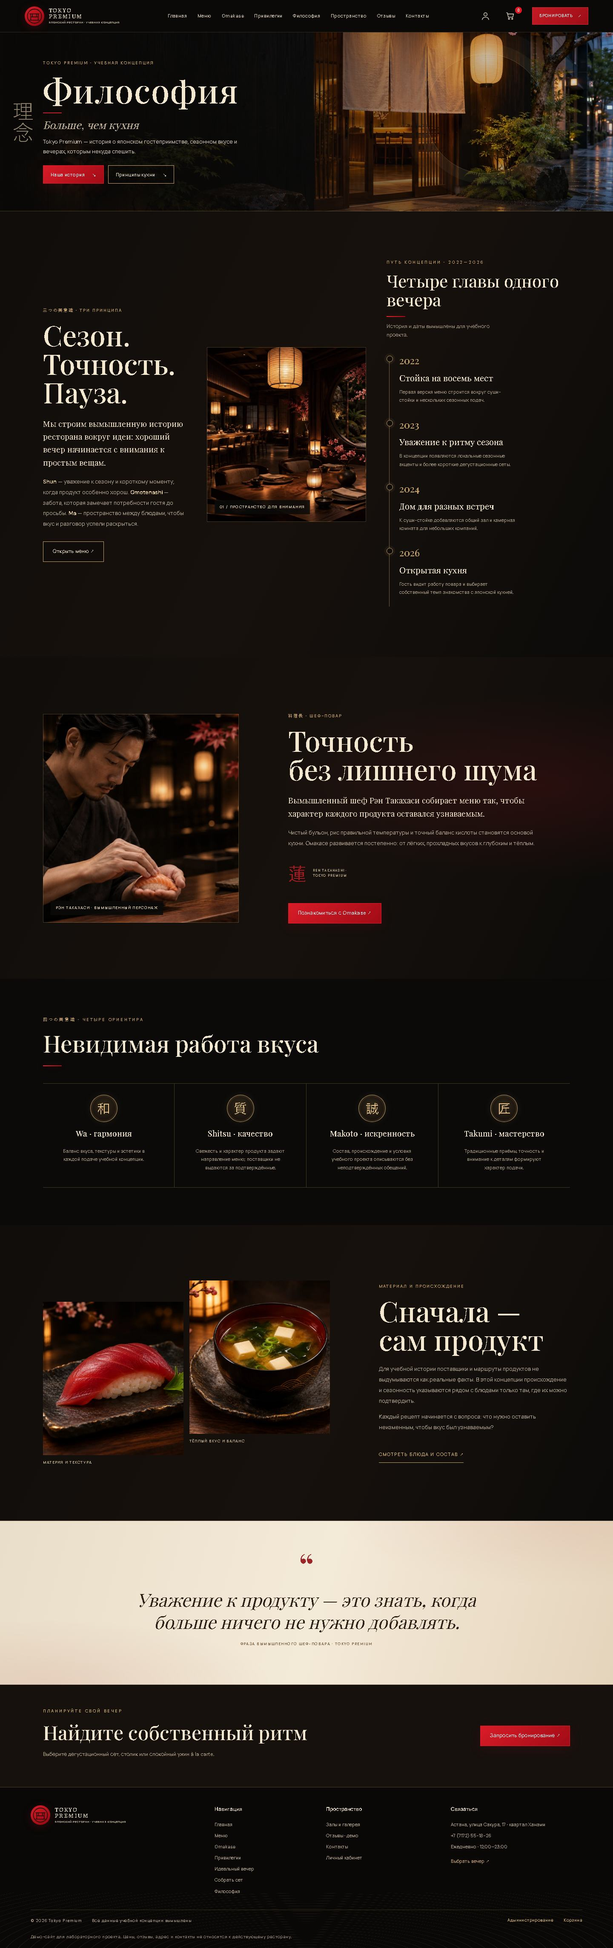
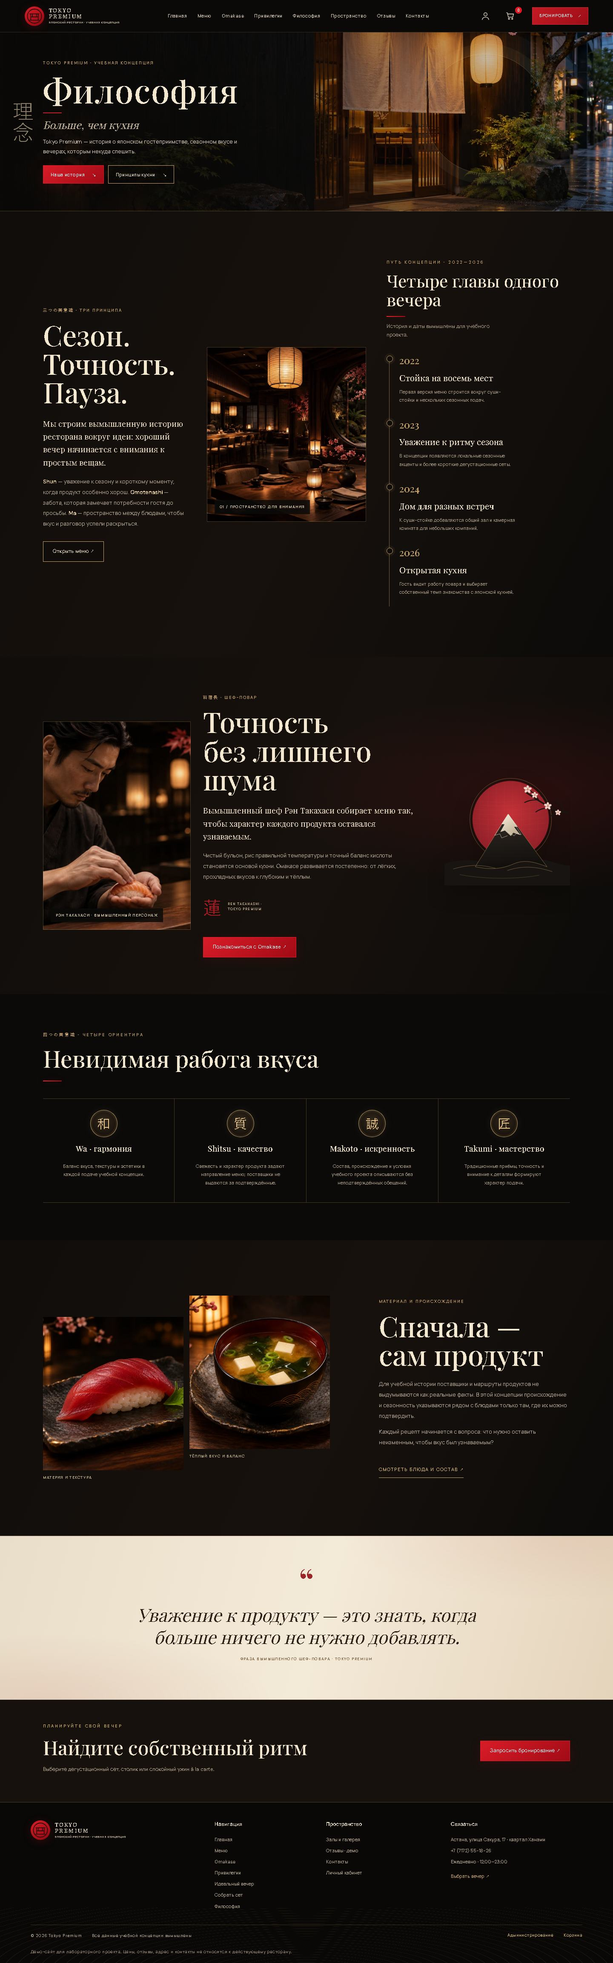
Add philosophy Fuji editorial artwork

diff --git a/docs/about.html b/docs/about.html
@@ -1,7 +1,7 @@
 <!doctype html><html lang="ru"><head><meta charset="utf-8"><meta name="viewport" content="width=device-width, initial-scale=1"><meta name="description" content="История вымышленного японского ресторана Tokyo Premium в Астане: сезонность, мастерство кухни и omotenashi."><meta name="theme-color" content="#0b0a09"><meta property="og:title" content="Философия — Tokyo Premium"><meta property="og:description" content="История вымышленного японского ресторана Tokyo Premium в Астане: сезонность, мастерство кухни и omotenashi."><meta property="og:type" content="website"><meta property="og:image" content="assets/generated/contact-exterior.webp"><meta name="twitter:card" content="summary_large_image"><meta name="twitter:image" content="assets/generated/contact-exterior.webp"><title>Философия — Tokyo Premium</title><style id="tp20-view-transition">@media (prefers-reduced-motion: no-preference){@view-transition{navigation:auto}::view-transition-old(root){animation:tp20-page-out 130ms ease both}::view-transition-new(root){animation:tp20-page-in 220ms cubic-bezier(.2,.65,.25,1) both}@keyframes tp20-page-out{to{opacity:0}}@keyframes tp20-page-in{from{opacity:0}to{opacity:1}}}</style><link rel="preconnect" href="https://fonts.googleapis.com"><link rel="preconnect" href="https://fonts.gstatic.com" crossorigin><link href="https://fonts.googleapis.com/css2?family=DM+Sans:wght@400;500;600&family=Manrope:wght@400;500;600;700&family=Playfair+Display:wght@400;500;600&display=swap" rel="stylesheet"><link rel="stylesheet" href="luxury.css"><link rel="stylesheet" href="editorial.css"><link rel="stylesheet" href="premium.css"><link rel="stylesheet" href="luxury-refinements.css"><link rel="stylesheet" href="tokyo20.css"><link rel="stylesheet" href="experience-ui.css"></head><body><header class="site-header"><a class="wordmark" href="index.html" aria-label="Tokyo Premium — главная"><span class="brand-emblem" aria-hidden="true"><svg viewBox="0 0 48 48" fill="none"><circle cx="24" cy="24" r="21"/><path d="M10 17h28M13 17v19m22-19v19M10 36h28M18 17v7m12-7v7M15 26h18"/></svg></span><span class="brand-type">TOKYO <i>PREMIUM</i><small>ЯПОНСКИЙ РЕСТОРАН · УЧЕБНАЯ КОНЦЕПЦИЯ</small></span></a><nav class="main-nav" id="site-navigation" aria-label="Основная навигация" aria-hidden="true" inert><a class="" href="index.html">Главная</a><a class="" href="menu.html">Меню</a><a class="" href="omakase.html">Omakase</a><a class="" href="offers.html">Привилегии</a><a href="about.html">Философия</a><a class="" href="gallery.html">Пространство</a><a href="reviews.html">Отзывы</a><a class="" href="contacts.html">Контакты</a><div class="mobile-nav-utilities" aria-label="Быстрые действия"><a href="booking.html">Бронирование <span aria-hidden="true">↗</span></a><a href="offers.html">Привилегии и акции <span aria-hidden="true">↗</span></a><a href="perfect-evening.html">Идеальный вечер <span aria-hidden="true">↗</span></a><a href="set-builder.html">Собрать сет <span aria-hidden="true">↗</span></a><a href="cart.html">Корзина <span class="mobile-cart-count" aria-hidden="true">0</span></a><a href="account.html">Личный кабинет</a></div></nav><div class="header-actions"><a class="header-icon" href="account.html" aria-label="Личный кабинет"><svg viewBox="0 0 24 24" aria-hidden="true"><circle cx="12" cy="8" r="4"/><path d="M4 21c.7-4 3.3-6 8-6s7.3 2 8 6"/></svg></a><a class="header-icon header-cart-link" href="cart.html" aria-label="Корзина"><svg viewBox="0 0 24 24" aria-hidden="true"><path d="M3 4h2l2.5 11h10.8l2-8H6"/><circle cx="9" cy="19" r="1.5"/><circle cx="17" cy="19" r="1.5"/></svg><span class="header-cart-count" aria-hidden="true">0</span></a></div><a class="header-cta" href="booking.html">Бронировать <span aria-hidden="true">↗</span></a><button class="mobile-menu" type="button" aria-controls="site-navigation" aria-label="Открыть меню" aria-expanded="false">Меню</button></header><main class="about-page">
   <section class="page-hero about-hero"><div class="about-hero-copy"><div class="kicker">TOKYO PREMIUM · УЧЕБНАЯ КОНЦЕПЦИЯ</div><h1>Философия</h1><p class="about-hero-sub">Больше, чем кухня</p><p>Tokyo Premium — история о японском гостеприимстве, сезонном вкусе и вечерах, которым некуда спешить.</p><div class="about-hero-actions"><a class="button" href="#story">Наша история <span aria-hidden="true">↘</span></a><a class="button secondary" href="#principles">Принципы кухни <span aria-hidden="true">↘</span></a></div></div><span class="about-hero-mark" lang="ja" aria-hidden="true">理念</span></section>
   <section class="about-story" id="story" aria-labelledby="about-story-title"><div class="section about-intro"><div class="about-intro-image"><img src="assets/generated/restaurant-interior.webp" width="1300" height="900" alt="Тёплая деревянная стойка и мягкий свет учебного ресторана" loading="lazy" decoding="async"><span>01 / Пространство для внимания</span></div><div class="about-copy"><div class="kicker">三つの美意識 · три принципа</div><h2 id="about-story-title">Сезон.<br>Точность.<br>Пауза.</h2><p class="about-lead">Мы строим вымышленную историю ресторана вокруг идеи: хороший вечер начинается с внимания к простым вещам.</p><p><strong>Shun</strong> — уважение к сезону и короткому моменту, когда продукт особенно хорош. <strong>Omotenashi</strong> — забота, которая замечает потребности гостя до просьбы. <strong>Ma</strong> — пространство между блюдами, чтобы вкус и разговор успели раскрыться.</p><a class="button secondary" href="menu.html">Открыть меню ↗</a></div></div><div class="about-timeline section dark" aria-labelledby="about-timeline-title"><div class="editorial-heading"><div class="kicker">Путь концепции · 2022—2026</div><h2 id="about-timeline-title">Четыре главы одного вечера</h2><p>История и даты вымышлены для учебного проекта.</p></div><ol class="timeline-list"><li><span>2022</span><div><h3>Стойка на восемь мест</h3><p>Первая версия меню строится вокруг суши-стойки и нескольких сезонных подач.</p></div></li><li><span>2023</span><div><h3>Уважение к ритму сезона</h3><p>В концепции появляются локальные сезонные акценты и более короткие дегустационные сеты.</p></div></li><li><span>2024</span><div><h3>Дом для разных встреч</h3><p>К суши-стойке добавляются общий зал и камерная комната для небольших компаний.</p></div></li><li><span>2026</span><div><h3>Открытая кухня</h3><p>Гость видит работу повара и выбирает собственный темп знакомства с японской кухней.</p></div></li></ol></div></section>
-  <section class="about-chef section"><div class="chef-portrait"><img src="assets/generated/chef-at-counter.webp" width="1000" height="1200" alt="Шеф у стойки во время подготовки дегустационного ужина" loading="lazy" decoding="async"><span class="chef-caption">Рэн Такахаси · вымышленный персонаж</span></div><div class="about-copy"><div class="kicker">料理長 · шеф-повар</div><h2>Точность<br>без лишнего шума</h2><p class="about-lead">Вымышленный шеф Рэн Такахаси собирает меню так, чтобы характер каждого продукта оставался узнаваемым.</p><p>Чистый бульон, рис правильной температуры и точный баланс кислоты становятся основой кухни. Омакасе развивается постепенно: от лёгких, прохладных вкусов к глубоким и тёплым.</p><div class="chef-signature">蓮 <span>REN TAKAHASHI · TOKYO PREMIUM</span></div><a class="button" href="omakase.html">Познакомиться с Omakase ↗</a></div></section>
+  <section class="about-chef section"><div class="chef-portrait"><img src="assets/generated/chef-at-counter.webp" width="1000" height="1200" alt="Шеф у стойки во время подготовки дегустационного ужина" loading="lazy" decoding="async"><span class="chef-caption">Рэн Такахаси · вымышленный персонаж</span></div><div class="about-copy"><div class="kicker">料理長 · шеф-повар</div><h2>Точность<br>без лишнего шума</h2><p class="about-lead">Вымышленный шеф Рэн Такахаси собирает меню так, чтобы характер каждого продукта оставался узнаваемым.</p><p>Чистый бульон, рис правильной температуры и точный баланс кислоты становятся основой кухни. Омакасе развивается постепенно: от лёгких, прохладных вкусов к глубоким и тёплым.</p><div class="chef-signature">蓮 <span>REN TAKAHASHI · TOKYO PREMIUM</span></div><a class="button" href="omakase.html">Познакомиться с Omakase ↗</a></div><figure class="chef-landscape" aria-hidden="true"><img src="assets/generated/philosophy-fuji-enso.svg" width="760" height="640" alt="" loading="lazy" decoding="async"></figure></section>
   <section class="about-principles section dark" id="principles"><div class="editorial-heading"><div class="kicker">四つの美意識 · четыре ориентира</div><h2>Невидимая работа вкуса</h2></div><div class="principle-grid"><article><span class="principle-medallion" lang="ja" aria-hidden="true">和</span><h3>Wa · гармония</h3><p>Баланс вкуса, текстуры и эстетики в каждой подаче учебной концепции.</p></article><article><span class="principle-medallion" lang="ja" aria-hidden="true">質</span><h3>Shitsu · качество</h3><p>Свежесть и характер продукта задают направление меню; поставщики не выдаются за подтверждённые.</p></article><article><span class="principle-medallion" lang="ja" aria-hidden="true">誠</span><h3>Makoto · искренность</h3><p>Состав, происхождение и условия учебного проекта описываются без неподтверждённых обещаний.</p></article><article><span class="principle-medallion" lang="ja" aria-hidden="true">匠</span><h3>Takumi · мастерство</h3><p>Традиционные приёмы, точность и внимание к деталям формируют характер подачи.</p></article></div></section>
   <section class="about-source section"><div class="source-copy"><div class="kicker">Материал и происхождение</div><h2>Сначала — сам продукт</h2><p>Для учебной истории поставщики и маршруты продуктов не выдумываются как реальные факты. В этой концепции происхождение и сезонность указываются рядом с блюдами только там, где их можно подтвердить.</p><p>Каждый рецепт начинается с вопроса: что нужно оставить неизменным, чтобы вкус был узнаваемым?</p><a class="text-link" href="menu.html">Смотреть блюда и состав ↗</a></div><div class="source-images"><figure><img src="assets/food/06-nigiri-tuna.webp" alt="Нигири с тунцом, блюдо учебного меню" loading="lazy" decoding="async"><figcaption>Материя и текстура</figcaption></figure><figure><img src="assets/food/14-miso-soup.webp" alt="Мисо-суп из учебного меню" loading="lazy" decoding="async"><figcaption>Тёплый вкус и баланс</figcaption></figure></div></section>
   <section class="about-quote"><span aria-hidden="true">“</span><blockquote>Уважение к продукту — это знать, когда больше ничего не нужно добавлять.</blockquote><p>Фраза вымышленного шеф-повара · Tokyo Premium</p></section>

diff --git a/docs/premium.css b/docs/premium.css
@@ -934,6 +934,13 @@ body.story-motion-gsap [data-story-reveal].story-visible img{animation:none}
 .account-dashboard-hero:before{background-image:linear-gradient(90deg,rgba(12,11,9,.95) 0%,rgba(12,11,9,.83) 40%,rgba(12,11,9,.46) 76%,rgba(12,11,9,.28) 100%),url("assets/generated/contact-exterior.webp");background-position:center 48%}
 @media(max-width:900px){.account-dashboard-hero:before{background-image:linear-gradient(90deg,rgba(12,11,9,.96) 0%,rgba(12,11,9,.86) 58%,rgba(12,11,9,.62) 100%),url("assets/generated/contact-exterior.webp");background-position:58% center}}
 
+/* Philosophy chef chapter: image, story, and original enso landscape. */
+.about-page .about-chef{grid-template-columns:minmax(220px,.75fr) minmax(0,1.08fr) minmax(190px,.72fr);gap:clamp(18px,2vw,32px);padding-top:clamp(58px,6vw,88px);padding-bottom:clamp(58px,6vw,88px)}
+.about-page .chef-landscape{display:grid;min-width:0;min-height:300px;margin:0;place-items:center;overflow:hidden}
+.about-page .chef-landscape img{display:block;width:100%;max-width:380px;max-height:470px;object-fit:contain;filter:drop-shadow(0 18px 24px rgba(0,0,0,.22))}
+@media(min-width:761px) and (max-width:1100px){.about-page .about-chef{grid-template-columns:minmax(230px,.8fr) minmax(0,1.2fr)}.about-page .chef-landscape{display:none}}
+@media(max-width:760px){.about-page .about-chef{grid-template-columns:1fr;padding:58px 22px}.about-page .chef-landscape{display:grid;order:3;min-height:0;max-height:250px;margin-top:-8px}.about-page .chef-landscape img{width:min(100%,300px);max-height:240px}}
+
 /* Bring the browser-local account closer to reference 11 while keeping every
    sample label and interaction intact. The tighter rhythm also shortens the
    first useful view on laptop screens. */

diff --git a/premium.css b/premium.css
@@ -934,6 +934,13 @@ body.story-motion-gsap [data-story-reveal].story-visible img{animation:none}
 .account-dashboard-hero:before{background-image:linear-gradient(90deg,rgba(12,11,9,.95) 0%,rgba(12,11,9,.83) 40%,rgba(12,11,9,.46) 76%,rgba(12,11,9,.28) 100%),url("assets/generated/contact-exterior.webp");background-position:center 48%}
 @media(max-width:900px){.account-dashboard-hero:before{background-image:linear-gradient(90deg,rgba(12,11,9,.96) 0%,rgba(12,11,9,.86) 58%,rgba(12,11,9,.62) 100%),url("assets/generated/contact-exterior.webp");background-position:58% center}}
 
+/* Philosophy chef chapter: image, story, and original enso landscape. */
+.about-page .about-chef{grid-template-columns:minmax(220px,.75fr) minmax(0,1.08fr) minmax(190px,.72fr);gap:clamp(18px,2vw,32px);padding-top:clamp(58px,6vw,88px);padding-bottom:clamp(58px,6vw,88px)}
+.about-page .chef-landscape{display:grid;min-width:0;min-height:300px;margin:0;place-items:center;overflow:hidden}
+.about-page .chef-landscape img{display:block;width:100%;max-width:380px;max-height:470px;object-fit:contain;filter:drop-shadow(0 18px 24px rgba(0,0,0,.22))}
+@media(min-width:761px) and (max-width:1100px){.about-page .about-chef{grid-template-columns:minmax(230px,.8fr) minmax(0,1.2fr)}.about-page .chef-landscape{display:none}}
+@media(max-width:760px){.about-page .about-chef{grid-template-columns:1fr;padding:58px 22px}.about-page .chef-landscape{display:grid;order:3;min-height:0;max-height:250px;margin-top:-8px}.about-page .chef-landscape img{width:min(100%,300px);max-height:240px}}
+
 /* Bring the browser-local account closer to reference 11 while keeping every
    sample label and interaction intact. The tighter rhythm also shortens the
    first useful view on laptop screens. */

diff --git a/about.php b/about.php
@@ -2,7 +2,7 @@
 <main class="about-page">
   <section class="page-hero about-hero"><div class="about-hero-copy"><div class="kicker">TOKYO PREMIUM · УЧЕБНАЯ КОНЦЕПЦИЯ</div><h1>Философия</h1><p class="about-hero-sub">Больше, чем кухня</p><p>Tokyo Premium — история о японском гостеприимстве, сезонном вкусе и вечерах, которым некуда спешить.</p><div class="about-hero-actions"><a class="button" href="#story">Наша история <span aria-hidden="true">↘</span></a><a class="button secondary" href="#principles">Принципы кухни <span aria-hidden="true">↘</span></a></div></div><span class="about-hero-mark" lang="ja" aria-hidden="true">理念</span></section>
   <section class="about-story" id="story" aria-labelledby="about-story-title"><div class="section about-intro"><div class="about-intro-image"><img src="assets/generated/restaurant-interior.webp" width="1300" height="900" alt="Тёплая деревянная стойка и мягкий свет учебного ресторана" loading="lazy" decoding="async"><span>01 / Пространство для внимания</span></div><div class="about-copy"><div class="kicker">三つの美意識 · три принципа</div><h2 id="about-story-title">Сезон.<br>Точность.<br>Пауза.</h2><p class="about-lead">Мы строим вымышленную историю ресторана вокруг идеи: хороший вечер начинается с внимания к простым вещам.</p><p><strong>Shun</strong> — уважение к сезону и короткому моменту, когда продукт особенно хорош. <strong>Omotenashi</strong> — забота, которая замечает потребности гостя до просьбы. <strong>Ma</strong> — пространство между блюдами, чтобы вкус и разговор успели раскрыться.</p><a class="button secondary" href="menu.php">Открыть меню ↗</a></div></div><div class="about-timeline section dark" aria-labelledby="about-timeline-title"><div class="editorial-heading"><div class="kicker">Путь концепции · 2022—2026</div><h2 id="about-timeline-title">Четыре главы одного вечера</h2><p>История и даты вымышлены для учебного проекта.</p></div><ol class="timeline-list"><li><span>2022</span><div><h3>Стойка на восемь мест</h3><p>Первая версия меню строится вокруг суши-стойки и нескольких сезонных подач.</p></div></li><li><span>2023</span><div><h3>Уважение к ритму сезона</h3><p>В концепции появляются локальные сезонные акценты и более короткие дегустационные сеты.</p></div></li><li><span>2024</span><div><h3>Дом для разных встреч</h3><p>К суши-стойке добавляются общий зал и камерная комната для небольших компаний.</p></div></li><li><span>2026</span><div><h3>Открытая кухня</h3><p>Гость видит работу повара и выбирает собственный темп знакомства с японской кухней.</p></div></li></ol></div></section>
-  <section class="about-chef section"><div class="chef-portrait"><img src="assets/generated/chef-at-counter.webp" width="1000" height="1200" alt="Шеф у стойки во время подготовки дегустационного ужина" loading="lazy" decoding="async"><span class="chef-caption">Рэн Такахаси · вымышленный персонаж</span></div><div class="about-copy"><div class="kicker">料理長 · шеф-повар</div><h2>Точность<br>без лишнего шума</h2><p class="about-lead">Вымышленный шеф Рэн Такахаси собирает меню так, чтобы характер каждого продукта оставался узнаваемым.</p><p>Чистый бульон, рис правильной температуры и точный баланс кислоты становятся основой кухни. Омакасе развивается постепенно: от лёгких, прохладных вкусов к глубоким и тёплым.</p><div class="chef-signature">蓮 <span>REN TAKAHASHI · TOKYO PREMIUM</span></div><a class="button" href="pages.php?page=omakase">Познакомиться с Omakase ↗</a></div></section>
+  <section class="about-chef section"><div class="chef-portrait"><img src="assets/generated/chef-at-counter.webp" width="1000" height="1200" alt="Шеф у стойки во время подготовки дегустационного ужина" loading="lazy" decoding="async"><span class="chef-caption">Рэн Такахаси · вымышленный персонаж</span></div><div class="about-copy"><div class="kicker">料理長 · шеф-повар</div><h2>Точность<br>без лишнего шума</h2><p class="about-lead">Вымышленный шеф Рэн Такахаси собирает меню так, чтобы характер каждого продукта оставался узнаваемым.</p><p>Чистый бульон, рис правильной температуры и точный баланс кислоты становятся основой кухни. Омакасе развивается постепенно: от лёгких, прохладных вкусов к глубоким и тёплым.</p><div class="chef-signature">蓮 <span>REN TAKAHASHI · TOKYO PREMIUM</span></div><a class="button" href="pages.php?page=omakase">Познакомиться с Omakase ↗</a></div><figure class="chef-landscape" aria-hidden="true"><img src="assets/generated/philosophy-fuji-enso.svg" width="760" height="640" alt="" loading="lazy" decoding="async"></figure></section>
   <section class="about-principles section dark" id="principles"><div class="editorial-heading"><div class="kicker">四つの美意識 · четыре ориентира</div><h2>Невидимая работа вкуса</h2></div><div class="principle-grid"><article><span class="principle-medallion" lang="ja" aria-hidden="true">和</span><h3>Wa · гармония</h3><p>Баланс вкуса, текстуры и эстетики в каждой подаче учебной концепции.</p></article><article><span class="principle-medallion" lang="ja" aria-hidden="true">質</span><h3>Shitsu · качество</h3><p>Свежесть и характер продукта задают направление меню; поставщики не выдаются за подтверждённые.</p></article><article><span class="principle-medallion" lang="ja" aria-hidden="true">誠</span><h3>Makoto · искренность</h3><p>Состав, происхождение и условия учебного проекта описываются без неподтверждённых обещаний.</p></article><article><span class="principle-medallion" lang="ja" aria-hidden="true">匠</span><h3>Takumi · мастерство</h3><p>Традиционные приёмы, точность и внимание к деталям формируют характер подачи.</p></article></div></section>
   <section class="about-source section"><div class="source-copy"><div class="kicker">Материал и происхождение</div><h2>Сначала — сам продукт</h2><p>Для учебной истории поставщики и маршруты продуктов не выдумываются как реальные факты. В этой концепции происхождение и сезонность указываются рядом с блюдами только там, где их можно подтвердить.</p><p>Каждый рецепт начинается с вопроса: что нужно оставить неизменным, чтобы вкус был узнаваемым?</p><a class="text-link" href="menu.php">Смотреть блюда и состав ↗</a></div><div class="source-images"><figure><img src="assets/food/06-nigiri-tuna.webp" alt="Нигири с тунцом, блюдо учебного меню" loading="lazy" decoding="async"><figcaption>Материя и текстура</figcaption></figure><figure><img src="assets/food/14-miso-soup.webp" alt="Мисо-суп из учебного меню" loading="lazy" decoding="async"><figcaption>Тёплый вкус и баланс</figcaption></figure></div></section>
   <section class="about-quote"><span aria-hidden="true">“</span><blockquote>Уважение к продукту — это знать, когда больше ничего не нужно добавлять.</blockquote><p>Фраза вымышленного шеф-повара · Tokyo Premium</p></section>

diff --git a/project-docs/visual-qa/reference-repair-followup-2026-11-17.md b/project-docs/visual-qa/reference-repair-followup-2026-11-17.md
@@ -38,3 +38,8 @@ This note covers two of the eleven approved reference pages. It is not a claim o
 Сверка с `design-references/06-gallery.png`: сохранена последовательность hero → принципы пространства → карточки зон → фильтруемая галерея → footer. Фотографии и композиция галереи теперь разнообразнее; структура вёрстки остаётся компактнее и отличается от макета, поэтому полный визуальный паритет не заявляется.
 
 Проверено: `npm run test:visual-fidelity` на PHP и Pages для маршрута `space`, включая уникальность 8 изображений, отсутствие повторов с карточками залов и загрузку изображений; `npm run test:gallery-caption`; `php -l pages.php`; `node --check tests/visual-fidelity-regression.cjs`; `git diff --check`. Захвачены и просмотрены PHP и статические скриншоты desktop/mobile: `2.0-visual-fidelity/space-{php,static}-{desktop,mobile}.jpg`.
+## Философия — оригинальный векторный пейзаж
+
+В главу о шефе добавлена собственная лёгкая SVG-композиция: красное солнце-энсо, Фудзи, тонкий золотой контур и сакура. Она дополняет фотографию шефа на широких экранах, а на телефоне идёт после фотографии и текста. Иллюстрация декоративная и скрыта от screen reader. Секция стала короче по вертикальным отступам; CSS source/Pages синхронизированы.
+
+Проверка `npm run test:visual-fidelity` прошла для философии в PHP и статическом режиме: SVG загружается, не озвучивается как содержимое, помещается в layout; мобильный порядок подтверждён (фото → рассказ → иллюстрация) и без горизонтального переполнения. Скриншоты `2.0-visual-fidelity/philosophy-{php,static}-{desktop,mobile}.jpg` просмотрены рядом с `design-references/05-philosophy.png`. Это адресное улучшение композиции, а не полное совпадение всей страницы с макетом.

diff --git a/project-docs/visual-qa/README.md b/project-docs/visual-qa/README.md
@@ -269,4 +269,4 @@ Compact PHP account navigation, active-section accessibility state and server-st
 
 ## 2026-11-17 PHP account density pass
 
-`2.0-visual-fidelity/account-php-{desktop,mobile}.jpg` shows the PHP dashboard after tightening the hero and empty history states. The focused account visual-fidelity regression passed in PHP and static modes, including the desktop two-by-two metric layout and mobile overflow check. The dashboard remains richer and longer than reference 11, so this is an improvement rather than a full parity claim.- The 2026-11-17 gallery follow-up uses distinct photographs in the eight-tile gallery and checks that none repeat the four room-card photos. PHP and static screenshots are `2.0-visual-fidelity/space-php-desktop.jpg`, `space-php-mobile.jpg`, `space-static-desktop.jpg`, and `space-static-mobile.jpg`; this focused pass does not establish full visual parity with reference 06.
+`2.0-visual-fidelity/account-php-{desktop,mobile}.jpg` shows the PHP dashboard after tightening the hero and empty history states. The focused account visual-fidelity regression passed in PHP and static modes, including the desktop two-by-two metric layout and mobile overflow check. The dashboard remains richer and longer than reference 11, so this is an improvement rather than a full parity claim.- The 2026-11-17 gallery follow-up uses distinct photographs in the eight-tile gallery and checks that none repeat the four room-card photos. PHP and static screenshots are `2.0-visual-fidelity/space-php-desktop.jpg`, `space-php-mobile.jpg`, `space-static-desktop.jpg`, and `space-static-mobile.jpg`; this focused pass does not establish full visual parity with reference 06.- The philosophy follow-up adds an original enso/Fuji/sakura SVG to the chef chapter. Captures: `2.0-visual-fidelity/philosophy-php-desktop.jpg`, `philosophy-php-mobile.jpg`, `philosophy-static-desktop.jpg`, and `philosophy-static-mobile.jpg`; desktop places the art beside the chef story, mobile preserves photo → story → art.

diff --git a/project-docs/testing-report.md b/project-docs/testing-report.md
@@ -507,3 +507,6 @@ The account route passed `npm run test:visual-fidelity` in both PHP and static m
 ## 2026-11-17 галерея пространства: отдельные фотографии
 
 Первые четыре кадра галереи больше не повторяют фотографии карточек залов. Добавлены проверки уникальных источников и отсутствия дублей между галереей и карточками зон. `npm run test:visual-fidelity` прошёл для PHP и статической версии на маршруте `space`; `npm run test:gallery-caption`, PHP lint, JS syntax и `git diff --check` прошли. Просмотрены desktop/mobile скриншоты обеих версий в `project-docs/visual-qa/2.0-visual-fidelity/`. Сравнение с `design-references/06-gallery.png` подтверждает сохранение общей структуры секций, но не полный визуальный паритет.
+## 2026-11-17 философия: векторный акцент Фудзи
+
+Добавлена оригинальная SVG-композиция энсо/Фудзи/сакуры в страницу философии, размещена третьей колонкой desktop и после chef story на мобильном. Точечная visual-fidelity проверка прошла для PHP и Pages, включая загрузку SVG, декоративную доступность, мобильный порядок секции и отсутствие overflow. Созданы и просмотрены четыре скриншота в `project-docs/visual-qa/2.0-visual-fidelity/`. Полное визуальное совпадение с reference 05 не заявляется.

diff --git a/project-docs/final-modernization-report.md b/project-docs/final-modernization-report.md
@@ -388,3 +388,6 @@ The authenticated PHP account dashboard now uses a shorter hero, a compact metri
 ## 2026-11-17 — gallery photo deduplication
 
 Updated the PHP and GitHub Pages gallery so its eight photographs are unique and do not reuse the images in the four room cards. Added browser assertions for both conditions, exported the static gallery, and passed focused PHP/static visual-fidelity plus gallery caption tests. Desktop and mobile screenshots of both modes were reviewed against reference 06. The page preserves the broad section order but still differs from the reference; complete visual parity and full-site acceptance remain open.
+## 2026-11-17 — Philosophy visual accent
+
+Added a small original SVG scene (enso, Mount Fuji and sakura) as a third editorial element in the philosophy chef chapter, with a mobile reading order that places it after the chef photo and copy. PHP and Pages route checks passed and desktop/mobile screenshots were inspected. This closes one visible art-direction gap; the broader page and remaining approved references still need review.
